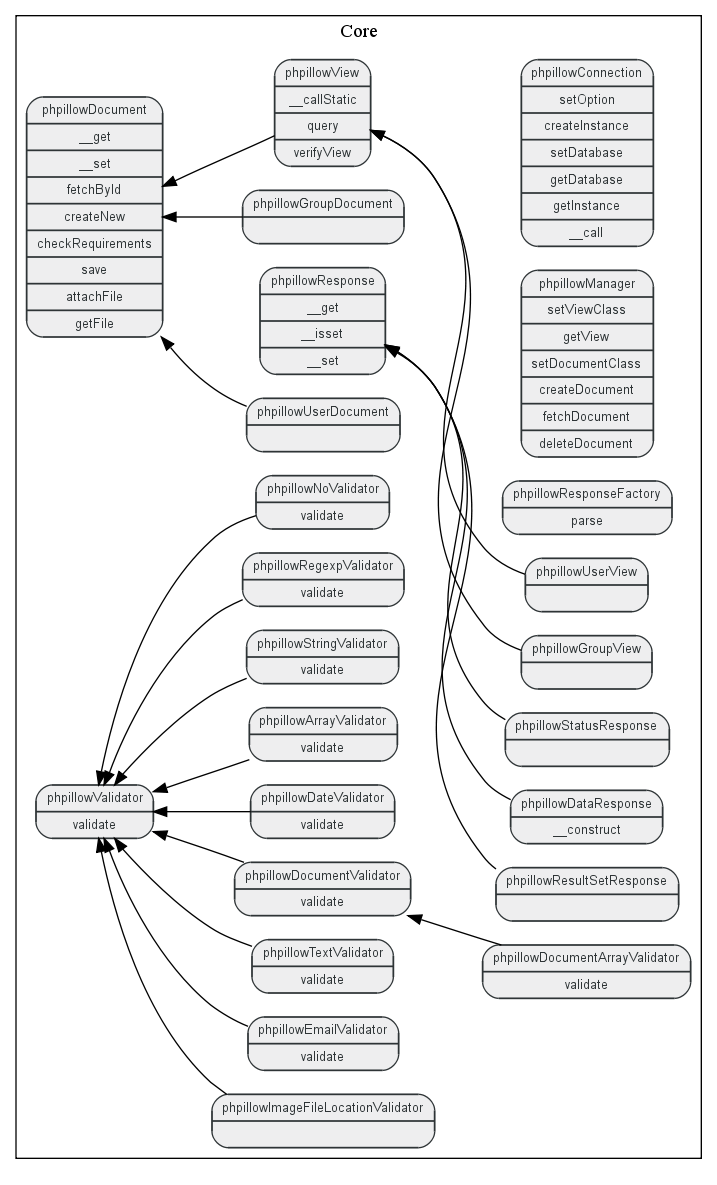
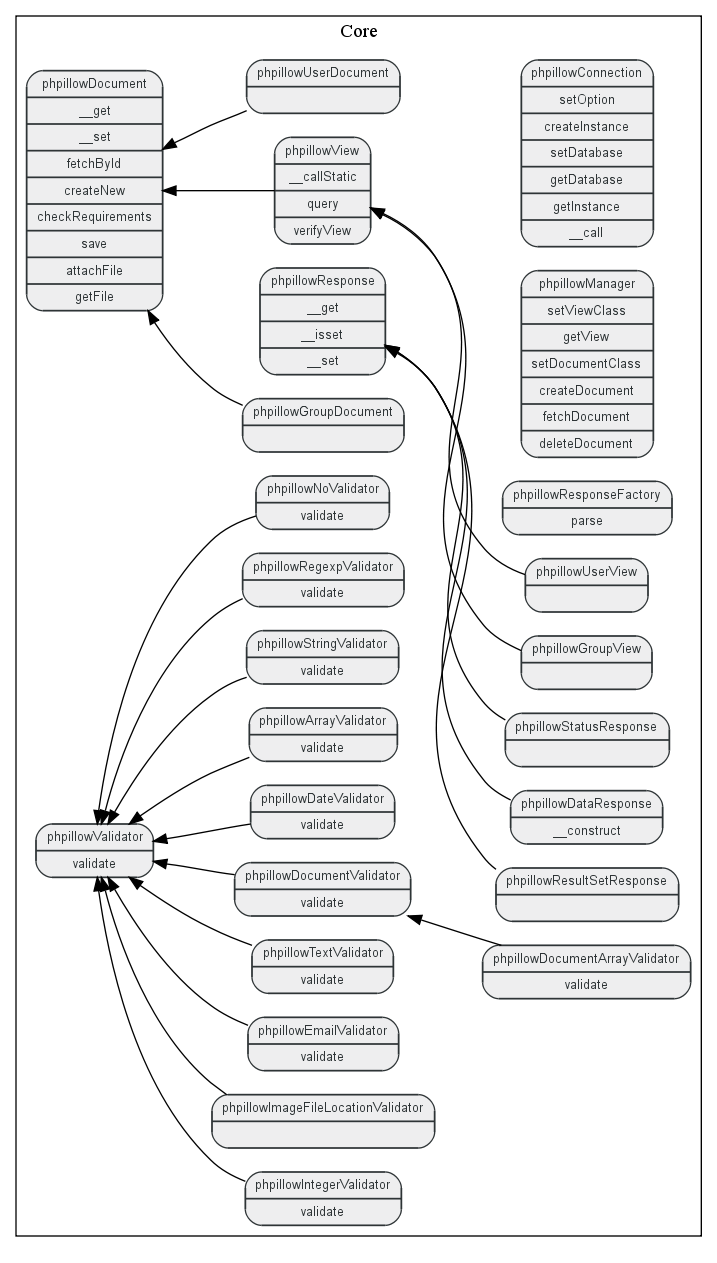
- Implemented: Integer validator
git-svn-id: svn://arbitracker.org/phpillow/trunk@43 c9640fd1-f2a0-481e-a8e5-009dc8289155

diff --git a/src/classes/validator/integer.php b/src/classes/validator/integer.php
@@ -1,0 +1,102 @@
+<?php
+/**
+ * phpillow CouchDB backend
+ *
+ * This file is part of phpillow.
+ *
+ * phpillow is free software; you can redistribute it and/or modify it under
+ * the terms of the GNU Lesser General Public License as published by the Free
+ * Software Foundation; version 3 of the License.
+ *
+ * phpillow is distributed in the hope that it will be useful, but WITHOUT ANY
+ * WARRANTY; without even the implied warranty of MERCHANTABILITY or FITNESS
+ * FOR A PARTICULAR PURPOSE.  See the GNU Lesser General Public License for
+ * more details.
+ *
+ * You should have received a copy of the GNU Lesser General Public License
+ * along with phpillow; if not, write to the Free Software Foundation, Inc., 51
+ * Franklin St, Fifth Floor, Boston, MA  02110-1301  USA
+ *
+ * @package Core
+ * @version $Revision: 4 $
+ * @license http://www.gnu.org/licenses/lgpl-3.0.txt LGPL
+ */
+
+/**
+ * Validate integer inputs
+ *
+ * @package Core
+ * @version $Revision: 4 $
+ * @license http://www.gnu.org/licenses/lgpl-3.0.txt LGPL
+ */
+class phpillowIntegerValidator extends phpillowValidator
+{
+    /**
+     * Minimum value for passed integer value
+     * 
+     * @var int
+     */
+    protected $min;
+
+    /**
+     * Maximum value for passed integer value
+     * 
+     * @var int
+     */
+    protected $max;
+
+    /**
+     * Validator constructor
+     *
+     * Validator constructor to optionally specifiy the minimum and maximum
+     * value for the allowed integer values. For no validation you may pass
+     * false to the respective parameter.
+     * 
+     * @param mixed $min 
+     * @param mixed $max 
+     * @return void
+     */
+    public function __construct( $min = false, $max = false )
+    {
+        $this->min = $min;
+        $this->max = $max;
+    }
+
+    /**
+     * Validate input as integer
+     * 
+     * @param mixed $input 
+     * @return int
+     */
+    public function validate( $input )
+    {
+        // Check for minimum constraint
+        if ( ( $this->min !== false ) &&
+             ( $input < $this->min ) )
+        {
+            throw new phpillowValidationException(
+                'Input value %input is not bigger or equal then %minimum.',
+                array(
+                    'input'   => $input,
+                    'minimum' => $this->min,
+                )
+            );
+        }
+
+        // Check for maximum constraint
+        if ( ( $this->max !== false ) &&
+             ( $input > $this->max ) )
+        {
+            throw new phpillowValidationException(
+                'Input value %input is not lesser or equal then %maximum.',
+                array(
+                    'input'   => $input,
+                    'maximum' => $this->max,
+                )
+            );
+        }
+
+        return (int) $input;
+    }
+}
+

diff --git a/tests/phpillow/validator_tests.php b/tests/phpillow/validator_tests.php
@@ -66,6 +66,77 @@ class phpillowValidatorTests extends PHPUnit_Framework_TestCase
         );
     }
 
+    public function testIntegerValidator()
+    {
+        $validator = new phpillowIntegerValidator();
+
+        $this->assertSame(
+            23,
+            $validator->validate( 23 )
+        );
+
+        $this->assertSame(
+            -23,
+            $validator->validate( -23 )
+        );
+
+        $this->assertSame(
+            23,
+            $validator->validate( 23.5 )
+        );
+
+        $this->assertSame(
+            23,
+            $validator->validate( '23' )
+        );
+    }
+
+    public function testIntegerValidatorBoundings1()
+    {
+        $validator = new phpillowIntegerValidator( 0 );
+
+        $this->assertSame(
+            23,
+            $validator->validate( 23 )
+        );
+
+        try
+        {
+            $validator->validate( -23 );
+            $this->fail( 'Expected phpillowValidationException.' );
+        }
+        catch ( phpillowValidationException $e )
+        {
+            $this->assertSame(
+                'Input value %input is not bigger or equal then %minimum.',
+                $e->getText()
+            );
+        }
+    }
+
+    public function testIntegerValidatorBoundings2()
+    {
+        $validator = new phpillowIntegerValidator( false, 0 );
+
+        $this->assertSame(
+            - 23,
+            $validator->validate( -23 )
+        );
+
+        try
+        {
+            $validator->validate( 23 );
+            $this->fail( 'Expected phpillowValidationException.' );
+        }
+        catch ( phpillowValidationException $e )
+        {
+            $this->assertSame(
+                'Input value %input is not lesser or equal then %maximum.',
+                $e->getText()
+            );
+        }
+    }
+
     public function testArrayValidator()
     {
         $validator = new phpillowArrayValidator();

diff --git a/src/classes/autoload.php b/src/classes/autoload.php
@@ -57,6 +57,7 @@ return array(
     'phpillowDocumentArrayValidator'         => 'classes/validator/document_array.php',
     'phpillowEmailValidator'                 => 'classes/validator/email.php',
     'phpillowImageFileLocationValidator'     => 'classes/validator/image_file_location.php',
+    'phpillowIntegerValidator'               => 'classes/validator/integer.php',
     'phpillowNoValidator'                    => 'classes/validator/no.php',
     'phpillowRegexpValidator'                => 'classes/validator/regexp.php',
     'phpillowStringValidator'                => 'classes/validator/string.php',

diff --git a/src/classes/validator/regexp.php b/src/classes/validator/regexp.php
@@ -51,6 +51,7 @@ class phpillowRegexpValidator extends phpillowValidator
     {
         $this->regexp = $regexp;
     }
+
     /**
      * Validate input string against a regexp
      *
